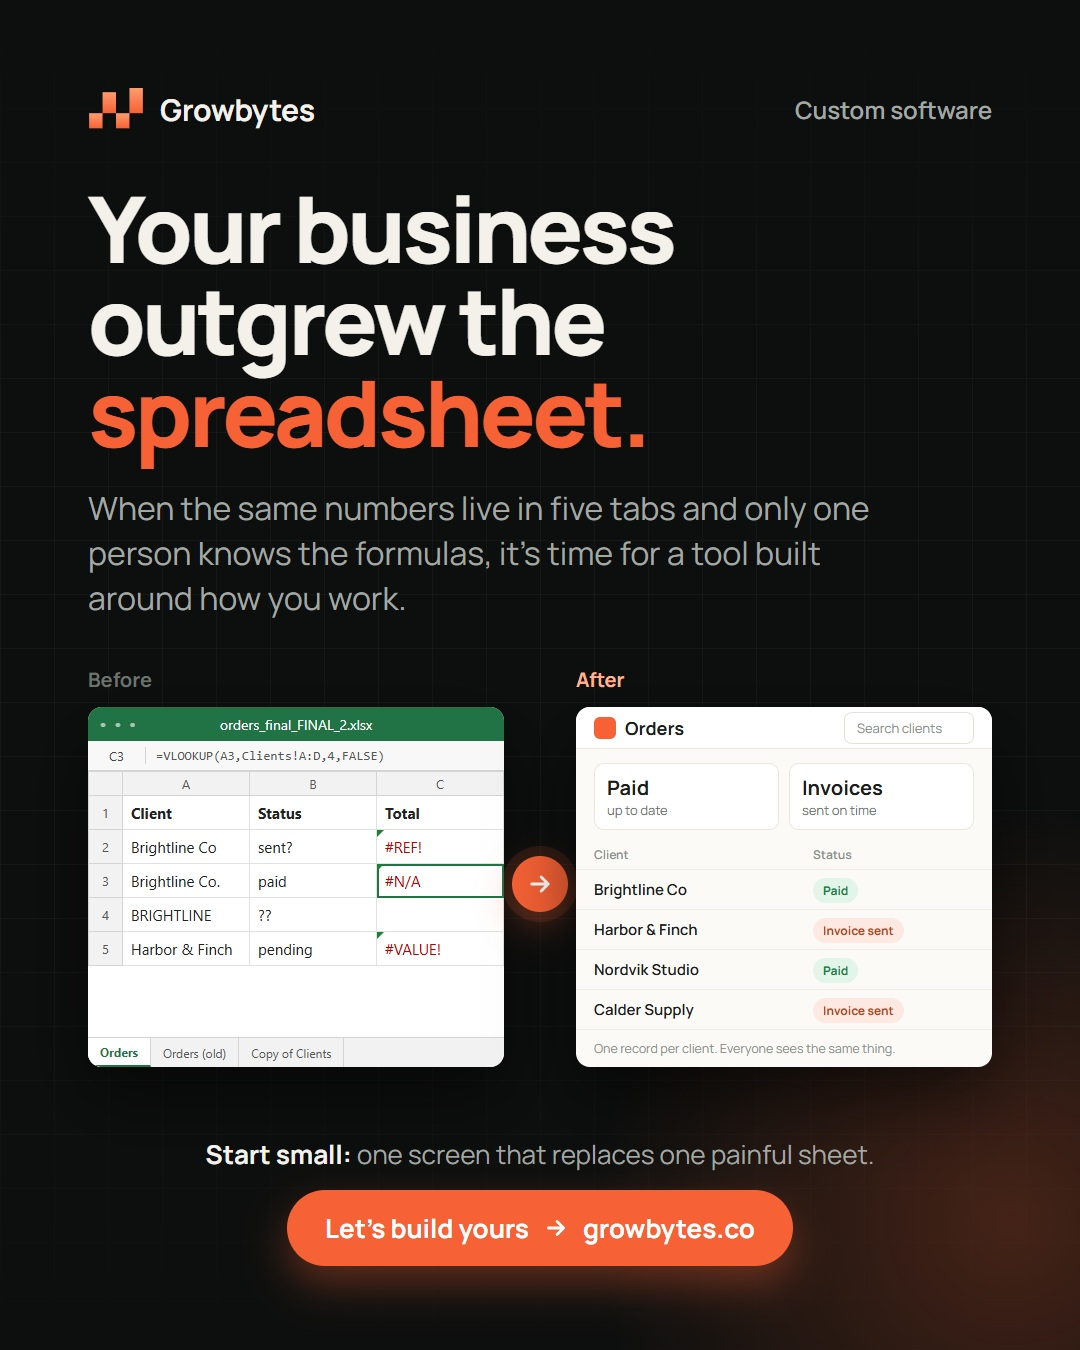
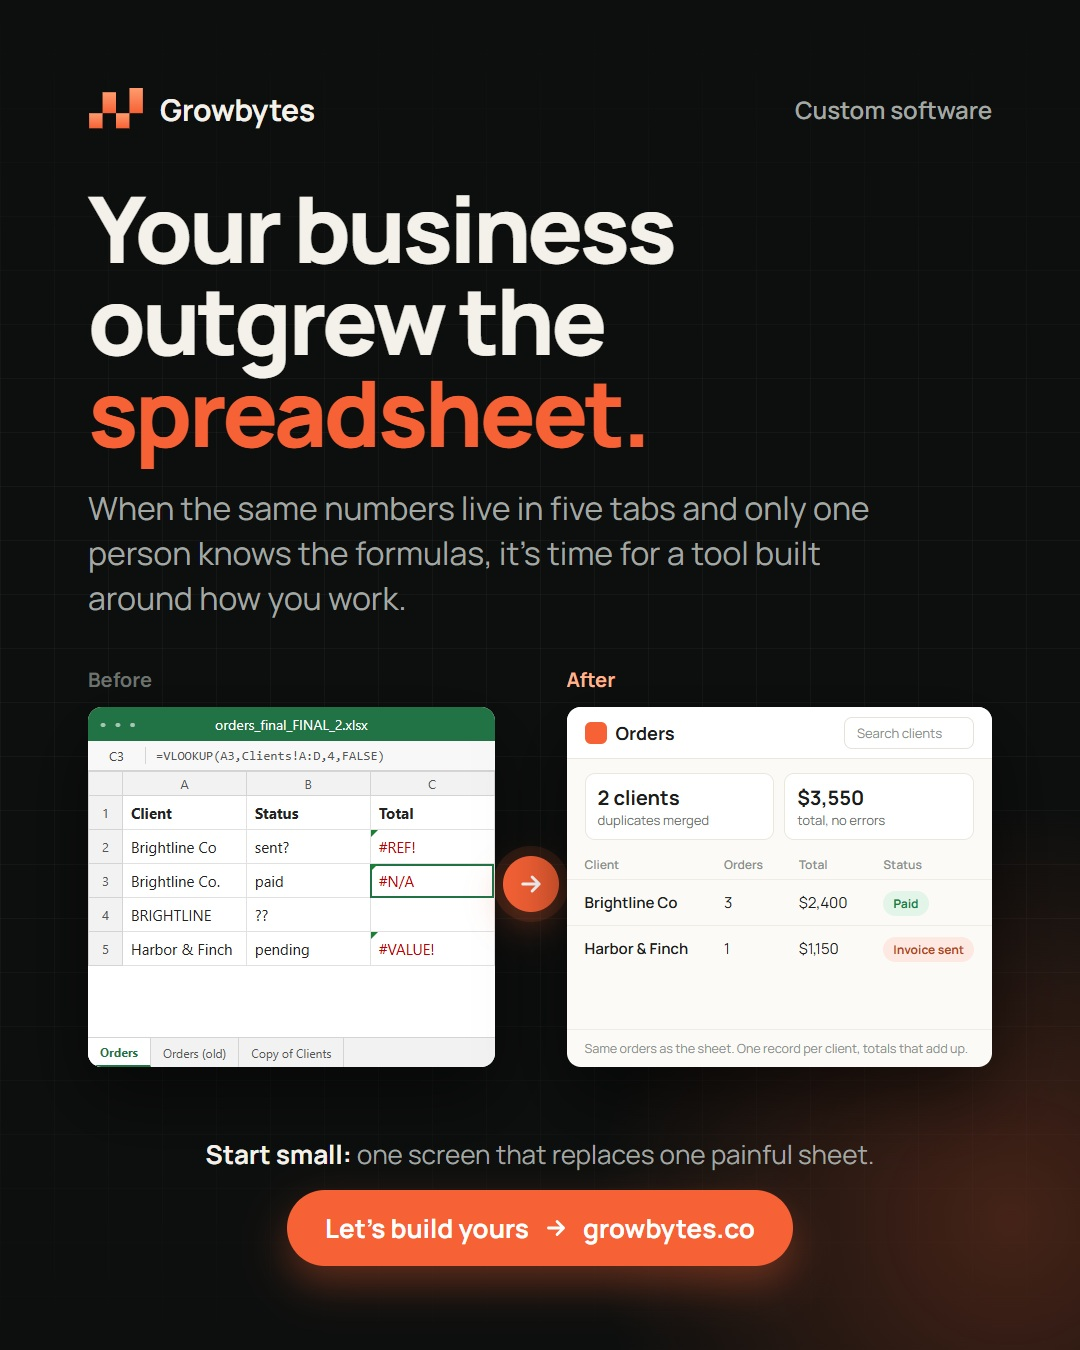
Social: after screen shows the same orders as the sheet, fixed

diff --git a/brand/social/src/outgrew-spreadsheet.html b/brand/social/src/outgrew-spreadsheet.html
@@ -57,7 +57,7 @@
   .app .sum strong { display:block; font-size:20px; color:#1b1d1c; }
   .app table { border-collapse:collapse; width:100%; font-size:15px; }
   .app th { text-align:left; font-size:12px; font-weight:600; color:#8a8f8b; padding:10px 18px 6px; }
-  .app td { padding:9px 18px; border-top:1px solid #efece5; }
+  .app td { padding:12px 18px; white-space:nowrap; border-top:1px solid #efece5; }
   .app td:first-child { font-weight:600; }
   .pill { font-size:12px; font-weight:700; padding:4px 10px; border-radius:999px; }
   .paid { color:#17803d; background:#e3f4e8; }
@@ -114,15 +114,13 @@
         <div class="label after">After</div>
         <div class="card app">
           <div class="top2"><b>Orders</b><span class="search">Search clients</span></div>
-          <div class="sum"><div><strong>Paid</strong>up to date</div><div><strong>Invoices</strong>sent on time</div></div>
+          <div class="sum"><div><strong>2 clients</strong>duplicates merged</div><div><strong>$3,550</strong>total, no errors</div></div>
           <table>
-            <tr><th>Client</th><th>Status</th></tr>
-            <tr><td>Brightline Co</td><td><span class="pill paid">Paid</span></td></tr>
-            <tr><td>Harbor &amp; Finch</td><td><span class="pill sent">Invoice sent</span></td></tr>
-            <tr><td>Nordvik Studio</td><td><span class="pill paid">Paid</span></td></tr>
-            <tr><td>Calder Supply</td><td><span class="pill sent">Invoice sent</span></td></tr>
+            <tr><th>Client</th><th>Orders</th><th>Total</th><th>Status</th></tr>
+            <tr><td>Brightline Co</td><td>3</td><td>$2,400</td><td><span class="pill paid">Paid</span></td></tr>
+            <tr><td>Harbor &amp; Finch</td><td>1</td><td>$1,150</td><td><span class="pill sent">Invoice sent</span></td></tr>
           </table>
-          <div class="note">One record per client. Everyone sees the same thing.</div>
+          <div class="note">Same orders as the sheet. One record per client, totals that add up.</div>
         </div>
       </div>
     </div>
